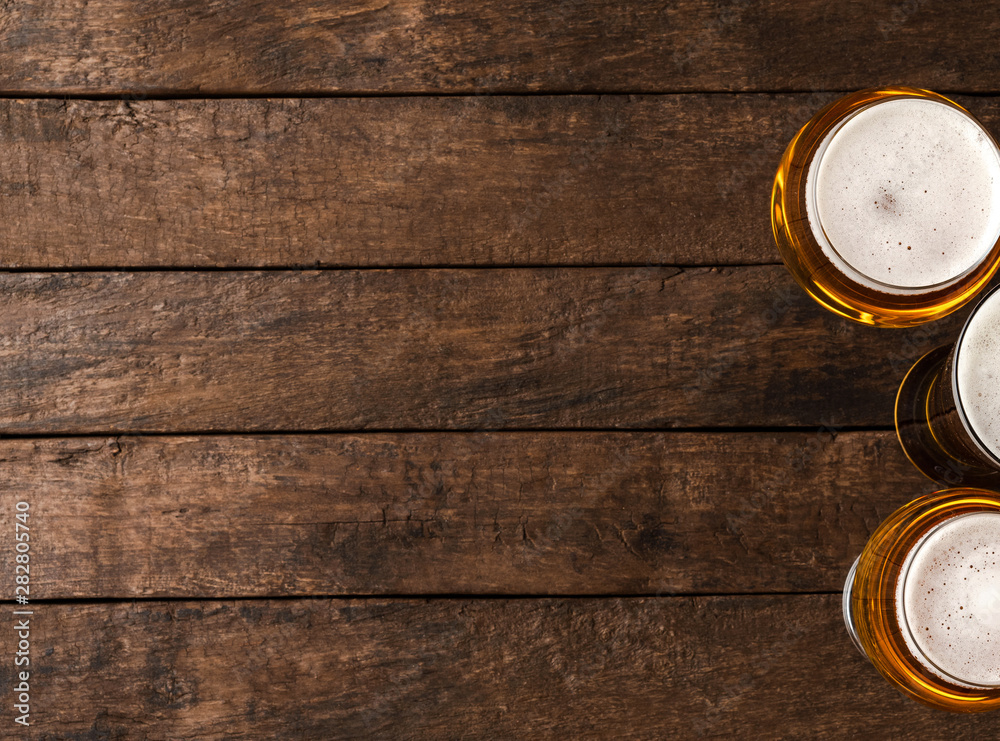
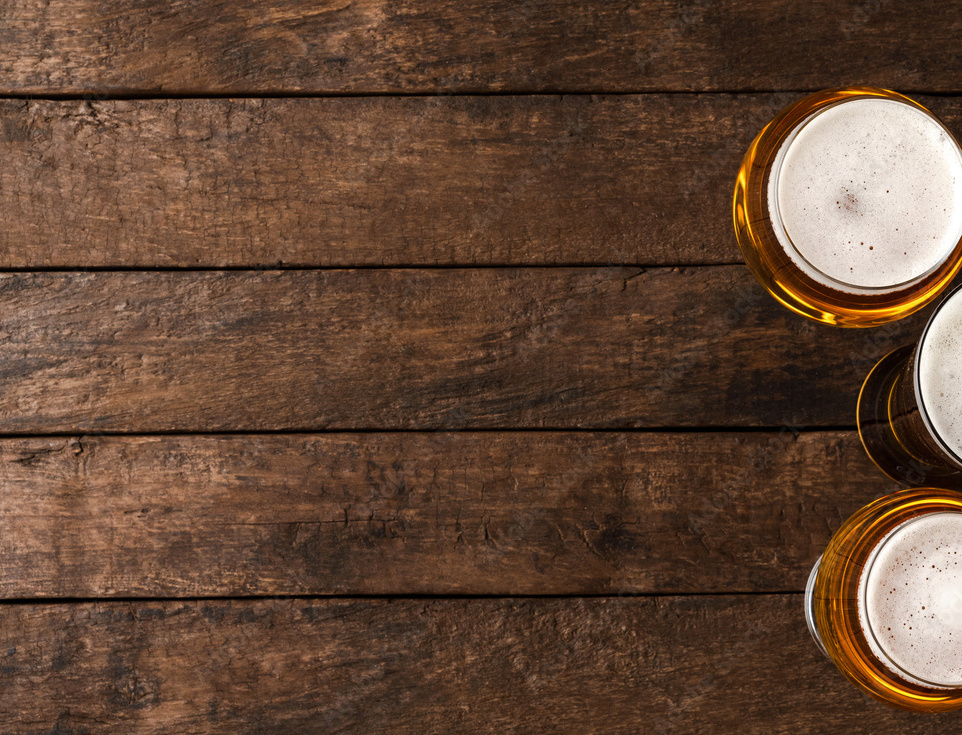
slider modified, bc changed

Changed region(s): [[0.0, 0.0, 1.0, 1.0], [0.8732, 0.2395, 0.9044, 0.2993], [0.9979, 0.5388, 1.0, 0.5687]]

diff --git a/style.scss b/style.scss
@@ -117,7 +117,7 @@ background-color: $c-header-footer;}
 
 
 .section-two__content {
-    background-image: url(../images/events_bc_plate.jpeg);
+    background-image: url(../images/slider-bc-food.jpeg);
     background-repeat: no-repeat;
     background-size: cover;
     background-position: center center;
@@ -126,11 +126,6 @@ background-color: $c-header-footer;}
     text-align: center;
     width: 100%;
     min-height: 300px;
-  
-    @media screen and (min-width: 450px) { 
-        background-image: url(../images/events_bc_1024.jpeg);
-        text-align: right;
-}
 
 @media screen and (min-width: 1250px) {
     min-height: 400px;
@@ -147,16 +142,24 @@ background-color: $c-header-footer;}
     width: 100%;
     min-height: 300px;
 
+
     @media screen and (min-width: 1250px) {
         min-height: 400px;
+        
     }
 
 }
 
-.section-two__content_bc-color {background-color: rgba(0,0,0, 0.2);
+.section-two__content_bc-color {
+    width: 60%;
+    margin-left: 50px;
     padding: 10px;
-    margin-top: 20px;
-}
+
+    @media screen and (min-width: 1250px) {
+        margin-top: 40px;
+        font-size: 1.3em;
+        
+    }}
 
 /* Section three - Rezervace */
 

diff --git a/css/style.css b/css/style.css
@@ -143,7 +143,7 @@ div[class^=section-first] > h2 {
 }
 
 .section-two__content {
-  background-image: url(../images/events_bc_plate.jpeg);
+  background-image: url(../images/slider-bc-food.jpeg);
   background-repeat: no-repeat;
   background-size: cover;
   background-position: center center;
@@ -152,12 +152,6 @@ div[class^=section-first] > h2 {
   text-align: center;
   width: 100%;
   min-height: 300px;
-}
-@media screen and (min-width: 450px) {
-  .section-two__content {
-    background-image: url(../images/events_bc_1024.jpeg);
-    text-align: right;
-  }
 }
 @media screen and (min-width: 1250px) {
   .section-two__content {
@@ -183,9 +177,15 @@ div[class^=section-first] > h2 {
 }
 
 .section-two__content_bc-color {
-  background-color: rgba(0, 0, 0, 0.2);
+  width: 60%;
+  margin-left: 50px;
   padding: 10px;
-  margin-top: 20px;
+}
+@media screen and (min-width: 1250px) {
+  .section-two__content_bc-color {
+    margin-top: 40px;
+    font-size: 1.3em;
+  }
 }
 
 /* Section three - Rezervace */
